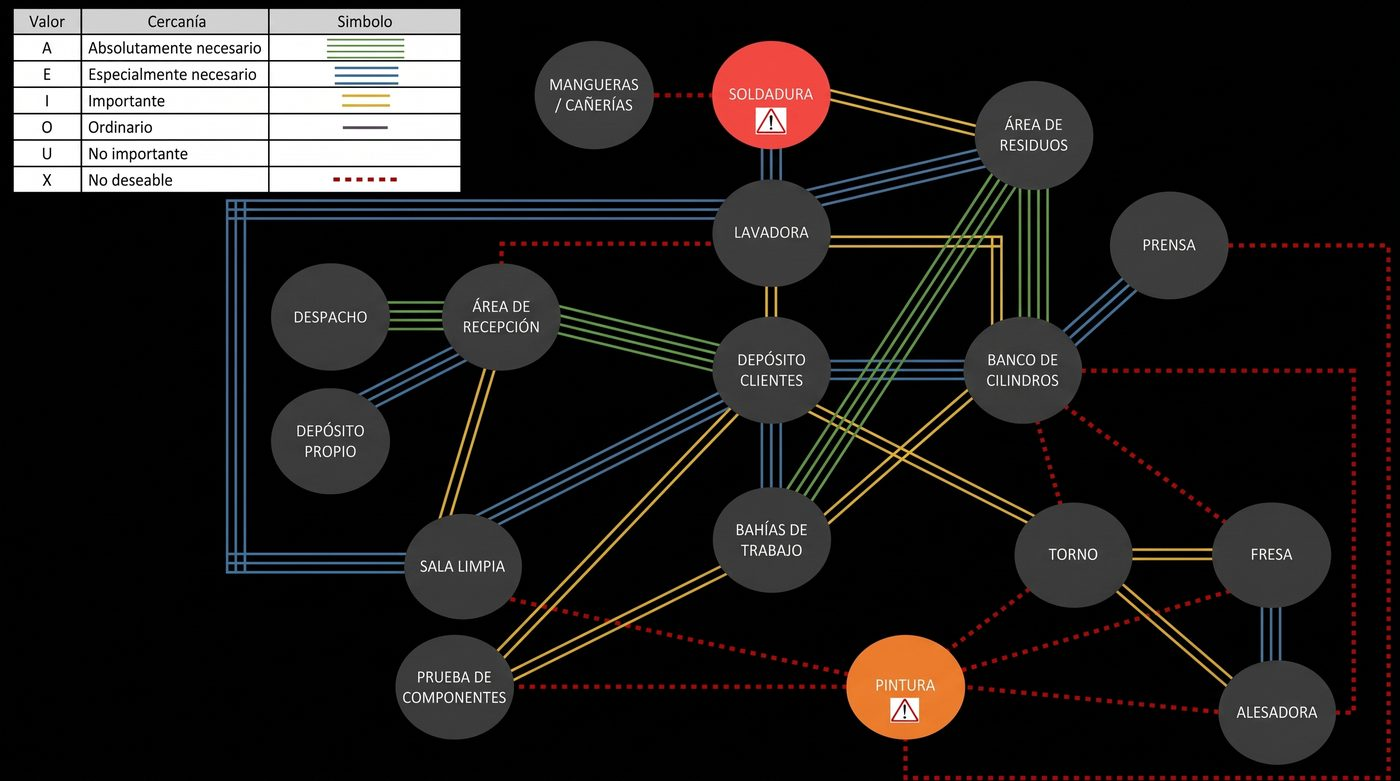
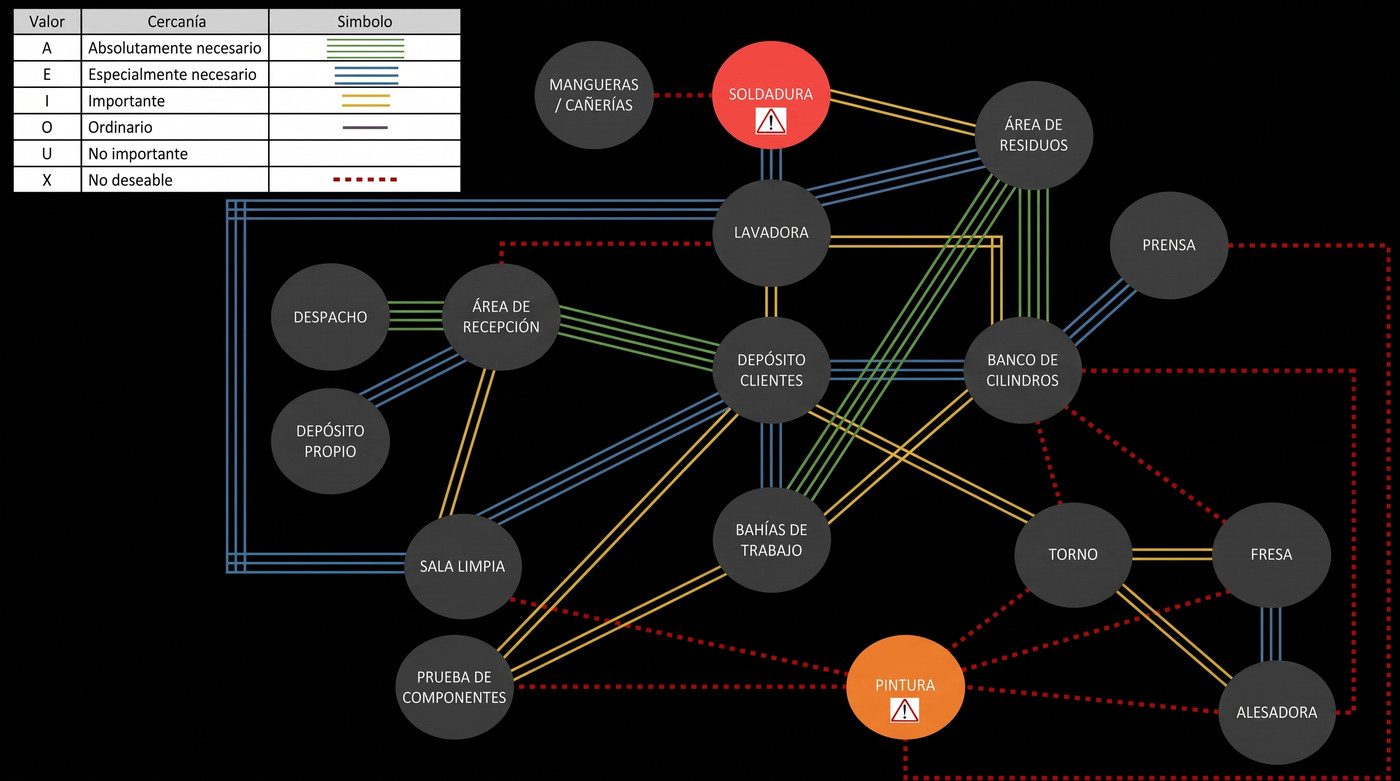
Casos: el diagrama se amplia en resolucion completa (2752 px) y la miniatura con mas calidad

diff --git a/casos.html b/casos.html
@@ -87,7 +87,7 @@
         <div><h3>El desafío</h3><p>La planta necesitaba ampliarse y el layout existente limitaba el flujo operativo y la productividad.</p></div>
         <div><h3>Qué hicimos</h3><p>Aplicamos la metodología de Planificación Sistemática de Layout para rediseñar y ampliar la planta, mejorando el recorrido de materiales y personas.</p></div>
       </div>
-      <div class="cs-imgs"><div class="cs-ph" role="img" aria-label="Espacio para imagen 1"><span>Imagen 1</span></div><figure class="cs-fig"><img src="Imagenes%20usadas/casos/layout_2.jpg" alt="Diagrama de relaciones entre áreas de la planta según su necesidad de cercanía" loading="lazy" width="1400" height="781"><button class="cs-zoom" type="button" aria-label="Ampliar imagen"><svg viewBox="0 0 24 24" aria-hidden="true"><circle cx="10.5" cy="10.5" r="6.5"/><path d="M15.5 15.5 21 21M10.5 7.5v6M7.5 10.5h6"/></svg></button></figure></div>
+      <div class="cs-imgs"><div class="cs-ph" role="img" aria-label="Espacio para imagen 1"><span>Imagen 1</span></div><figure class="cs-fig"><img src="Imagenes%20usadas/casos/layout_2.jpg" data-full="Imagenes%20usadas/casos/layout_2_full.webp" alt="Diagrama de relaciones entre áreas de la planta según su necesidad de cercanía" loading="lazy" width="1400" height="781"><button class="cs-zoom" type="button" aria-label="Ampliar imagen"><svg viewBox="0 0 24 24" aria-hidden="true"><circle cx="10.5" cy="10.5" r="6.5"/><path d="M15.5 15.5 21 21M10.5 7.5v6M7.5 10.5h6"/></svg></button></figure></div>
     </div>
   </article>
   <article class="cs" id="polietileno">
@@ -137,6 +137,9 @@
   function lbOpen(im) {
     if (lbBusy) return; lbBusy = true; lbSrc = im;
     lbImg.src = im.src; lbImg.alt = im.alt;
+    /* la versión en resolución completa (2752 px) se carga recién al ampliar y reemplaza a la miniatura apenas llega */
+    var full = im.getAttribute("data-full");
+    if (full) { var hi = new Image(); hi.decoding = "async"; hi.onload = function () { if (!lb.hidden && lbSrc === im) lbImg.src = full; }; hi.src = full; }
     lb.hidden = false; document.body.style.overflow = "hidden";
     var to = lbImg.getBoundingClientRect(), from = im.getBoundingClientRect();
     im.style.visibility = "hidden";
